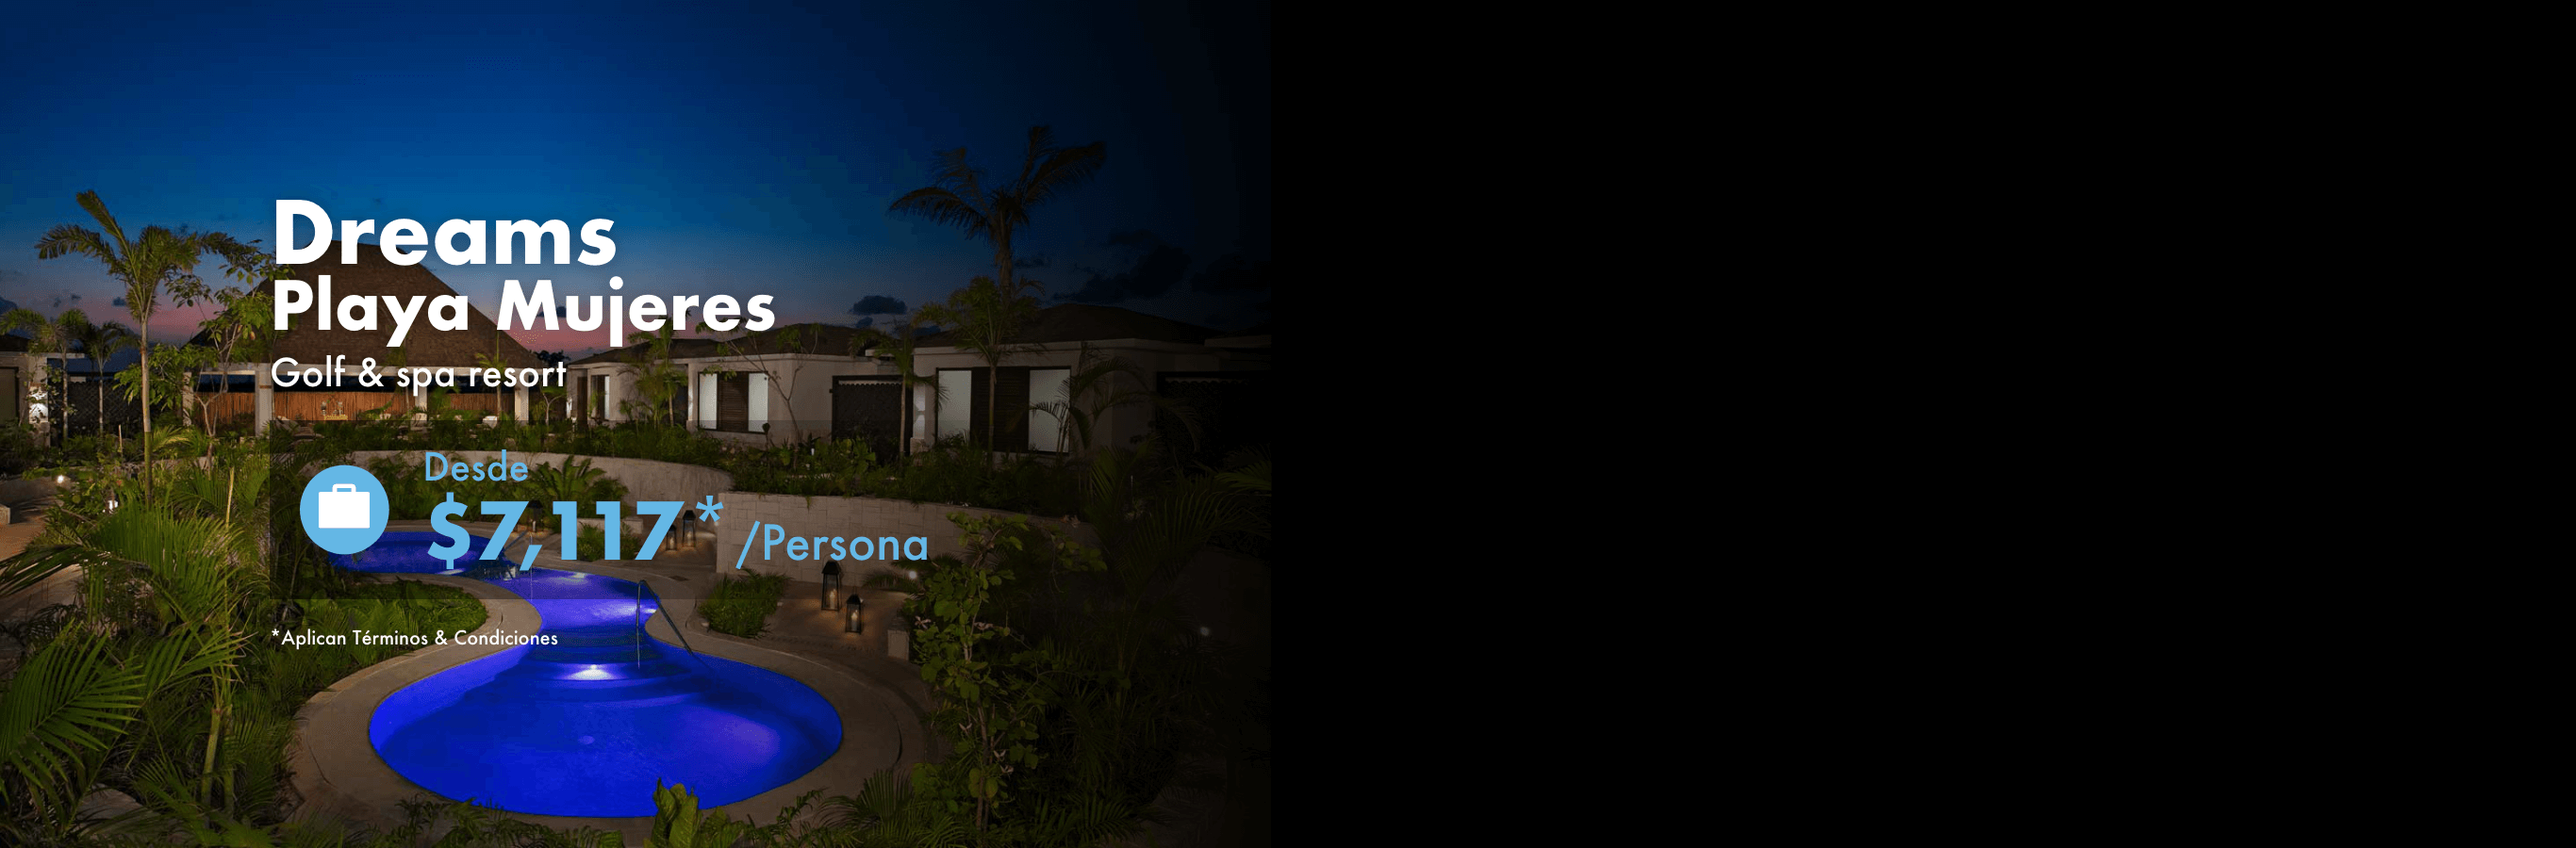
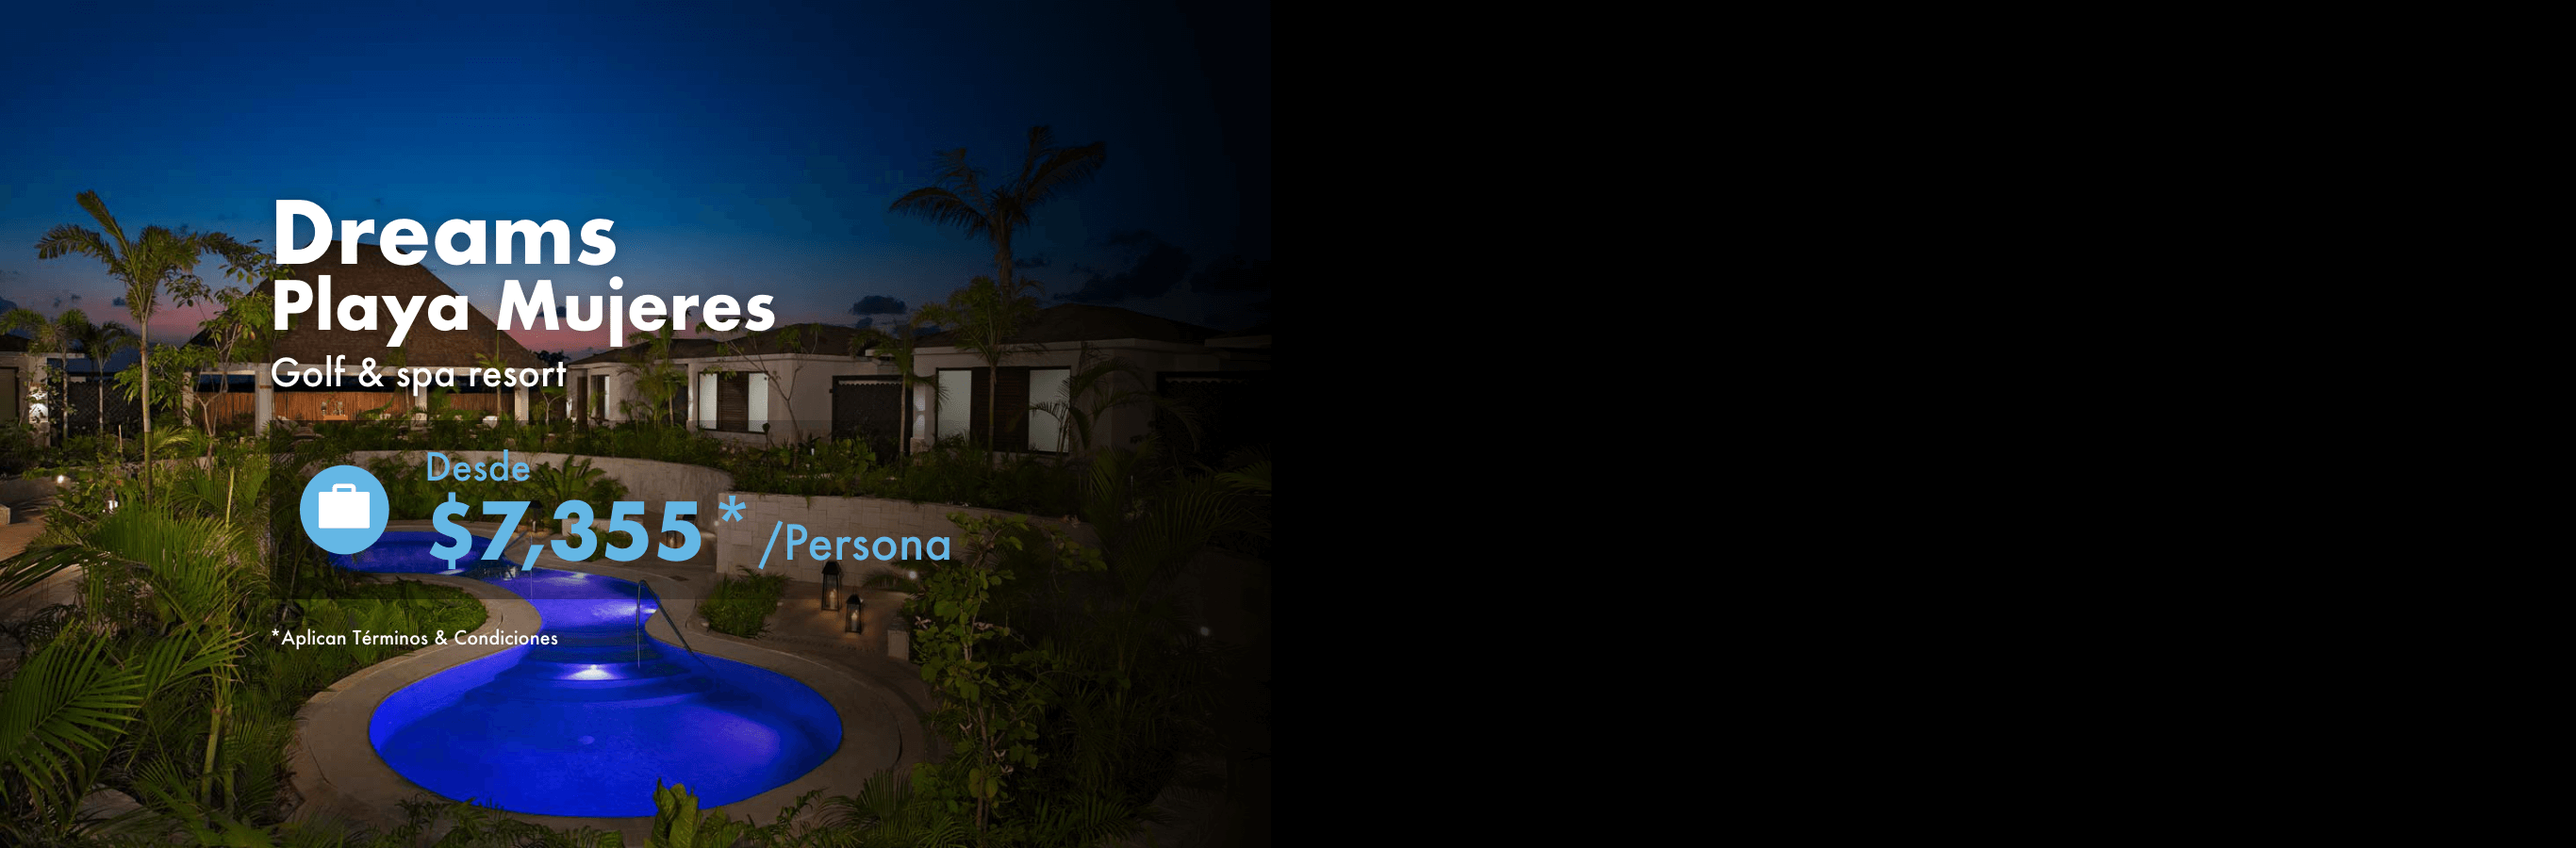
Cambios de precios y slides de home page

diff --git a/index.php b/index.php
@@ -22,7 +22,7 @@
                                 <img src="./assets/images/boni/Slides/dreams_playamujeres@2x.png" alt="dreams">
                             </li>
                             <li>
-                                <img src="./assets/images/boni/Slides/rosewood_sma@2x.png" alt="rosewood">
+                                <img src="./assets/images/boni/Slides/azultalavera_hotel@2x.png" alt="azul">
                             </li>
                             <div class="col-md-6">
                                 <form id="form-send" class="row pos-form col-md-11" action="./assets/mail/send.php" method="POST">
@@ -127,7 +127,7 @@
                             <div class="col-md-12 col-sm-12 p-15">
                                 <h4 class="text-uppercase f-medium f-res-20">Nobu Hotel Los Cabos</h4>
                                 <small class="c-red f-8">Desde</small>
-                                <p class="c-red f-16">$8,058*<span class="fs-8">/Noche</span></p>
+                                <p class="c-red f-16">$9,542*<span class="fs-8">/Noche</span></p>
                                 <a href="#main" class="btn col-md-12 col-xs-12 btn-yellow white-text mb-10 radius-0 f-bold mb-0 txt-cap p-15 form-desktop">Llámame</a>
                                 <a href="#formRes" class="btn col-md-12 col-xs-12 btn-yellow white-text mb-10 radius-0 f-bold mb-0 txt-cap p-15 d-mobile">Llámame</a>
                             </div>
@@ -141,7 +141,7 @@
                             <div class="col-md-12 col-sm-12 p-15">
                                 <h4 class="text-uppercase f-medium f-res-20">Grand Velas Los Cabos</h4>
                                 <small class="c-red f-8">Desde</small>
-                                <p class="c-red f-16">$24,384*<span class="fs-8">/Noche</span></p>
+                                <p class="c-red f-16">$24,883*<span class="fs-8">/Noche</span></p>
                                 <a href="#main" class="btn col-md-12 col-xs-12 btn-yellow white-text mb-10 radius-0 f-bold mb-0 txt-cap p-15 form-desktop">Llámame</a>
                                 <a href="#formRes" class="btn col-md-12 col-xs-12 btn-yellow white-text mb-10 radius-0 f-bold mb-0 txt-cap p-15 d-mobile">Llámame</a>
                             </div>
@@ -155,7 +155,7 @@
                             <div class="col-md-12 col-sm-12 p-15">
                                 <h4 class="mb-0 text-uppercase f-medium f-res-20">Rosewood San Miguel Allende</h4>
                                 <small class="c-red f-8">Desde</small>
-                                <p class="c-red f-16">$9,000*<span class="fs-8">/Noche</span></p>
+                                <p class="c-red f-16">$9,999*<span class="fs-8">/Noche</span></p>
                                 <a href="#main" class="btn col-md-12 col-xs-12 btn-yellow white-text mb-10 radius-0 f-bold mb-0 txt-cap p-15 form-desktop">Llámame</a>
                                 <a href="#formRes" class="btn col-md-12 col-xs-12 btn-yellow white-text mb-10 radius-0 f-bold mb-0 txt-cap p-15 d-mobile">Llámame</a>
                             </div>
@@ -183,7 +183,7 @@
                             <div class="col-md-12 col-sm-12 p-15">
                                 <h4 class="text-uppercase f-medium f-res-20">Azul Talavera</h4>
                                 <small class="c-red f-8">Desde</small>
-                                <p class="c-red f-16">$6,451*<span class="fs-8">/Noche</span></p>
+                                <p class="c-red f-16">$6,556*<span class="fs-8">/Noche</span></p>
                                 <a href="#main" class="btn col-md-12 col-xs-12 btn-yellow white-text mb-10 radius-0 f-bold mb-0 txt-cap p-15 form-desktop">Llámame</a>
                                 <a href="#formRes" class="btn col-md-12 col-xs-12 btn-yellow white-text mb-10 radius-0 f-bold mb-0 txt-cap p-15 d-mobile">Llámame</a>
                             </div>
@@ -209,7 +209,7 @@
                             <div class="col-md-12 col-sm-12 p-15">
                                 <h4 class="text-uppercase f-medium f-res-20">The Grand Moon Palace </h4>
                                 <small class="c-red f-8">Desde</small>
-                                <p class="c-red f-16">$10,814*<span class="fs-8">/Persona</span></p>
+                                <p class="c-red f-16">$11,234*<span class="fs-8">/Persona</span></p>
                                 <a href="#main" class="btn col-md-12 col-xs-12 btn-yellow white-text mb-10 radius-0 f-bold mb-0 txt-cap p-15 form-desktop">Llámame</a>
                                 <a href="#formRes" class="btn col-md-12 col-xs-12 btn-yellow white-text mb-10 radius-0 f-bold mb-0 txt-cap p-15 d-mobile">Llámame</a>
                             </div>
@@ -223,7 +223,7 @@
                             <div class="col-md-12 col-sm-12 p-15">
                                 <h4 class="mb-0 text-uppercase f-medium f-res-20">Hard Rock Hotel Cancun</h4>
                                 <small class="c-red f-8">Desde</small>
-                                <p class="c-red f-16">$8,869*<span class="fs-8">/Persona</span></p>
+                                <p class="c-red f-16">$9,715*<span class="fs-8">/Persona</span></p>
                                 <a href="#main" class="btn col-md-12 col-xs-12 btn-yellow white-text mb-10 radius-0 f-bold mb-0 txt-cap p-15 form-desktop">Llámame</a>
                                 <a href="#formRes" class="btn col-md-12 col-xs-12 btn-yellow white-text mb-10 radius-0 f-bold mb-0 txt-cap p-15 d-mobile">Llámame</a>
                             </div>
@@ -237,7 +237,7 @@
                             <div class="col-md-12 col-sm-12 p-15">
                                 <h4 class="mb-0 text-uppercase f-medium f-res-20">Dreams Playa Mujeres Golf Resort & Spa</h4>
                                 <small class="c-red f-8">Desde</small>
-                                <p class="c-red f-16">$7,117*<span class="fs-8">/Persona</span></p>
+                                <p class="c-red f-16">$7,355*<span class="fs-8">/Persona</span></p>
                                 <a href="#main" class="btn col-md-12 col-xs-12 btn-yellow white-text mb-10 radius-0 f-bold mb-0 txt-cap p-15 form-desktop">Llámame</a>
                                 <a href="#formRes" class="btn col-md-12 col-xs-12 btn-yellow white-text mb-10 radius-0 f-bold mb-0 txt-cap p-15 d-mobile">Llámame</a>
                             </div>
@@ -251,7 +251,7 @@
                             <div class="col-md-12 col-sm-12 p-15">
                                 <h4 class="text-uppercase f-medium f-res-20">UNICO 20ºN 87ºW</h4>
                                 <small class="c-red f-8">Desde</small>
-                                <p class="c-red f-16">$11,981*<span class="fs-8">/Persona</span></p>
+                                <p class="c-red f-16">$11,622*<span class="fs-8">/Persona</span></p>
                                 <a href="#main" class="btn col-md-12 col-xs-12 btn-yellow white-text mb-10 radius-0 f-bold mb-0 txt-cap p-15 form-desktop">Llámame</a>
                                 <a href="#formRes" class="btn col-md-12 col-xs-12 btn-yellow white-text mb-10 radius-0 f-bold mb-0 txt-cap p-15 d-mobile">Llámame</a>
                             </div>
@@ -265,7 +265,7 @@
                             <div class="col-md-12 col-sm-12 p-15">
                                 <h4 class="mb-0 text-uppercase f-medium f-res-20">GRAND VELAS RIVIERA NAYARIT</h4>
                                 <small class="c-red f-8">Desde</small>
-                                <p class="c-red f-16">$17,840*<span class="fs-8">/Persona</span></p>
+                                <p class="c-red f-16">$17,684*<span class="fs-8">/Persona</span></p>
                                 <a href="#main" class="btn col-md-12 col-xs-12 btn-yellow white-text mb-10 radius-0 f-bold mb-0 txt-cap p-15 form-desktop">Llámame</a>
                                 <a href="#formRes" class="btn col-md-12 col-xs-12 btn-yellow white-text mb-10 radius-0 f-bold mb-0 txt-cap p-15 d-mobile">Llámame</a>
                             </div>
